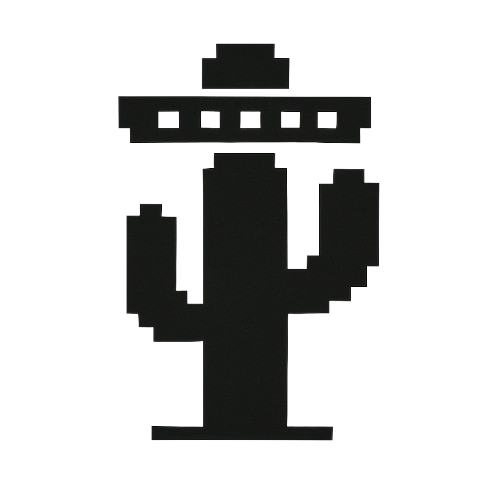
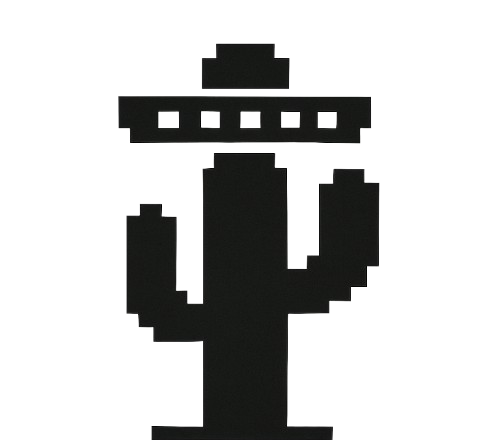
Refactor cactus obstacle logic and update styles
Replaces the single moving cactus with dynamic obstacle generation and movement in script.js. Updates styles.css to support multiple obstacles and adjusts positioning. Also updates the cacti.png asset.

diff --git a/script.js b/script.js
@@ -1,11 +1,55 @@
-let cactus = document.getElementById("cactus")
-let cactusPosition = 600;
+const cactusContainer = document.getElementById("cactus")
+let lastCactusTime = 0;
+const cactusInterval = 5000;
 
-function moveCactus() {
+/* function moveCactus() {
     cactusPosition -= 5;
     if (cactusPosition < - 20) cactusPosition = 600;
     cactus.style.left = cactusPosition + "px";
 }
 
-setInterval(moveCactus, 50)
+setInterval(moveCactus, 50) */
 
+function createObstacle() {
+    const obstacle = document.createElement("div");
+    obstacle.classList.add("cactus-obstacles");
+
+    //Random height
+    const height = Math.floor(Math.random() * 30) + 50;
+    obstacle.style.height = height + "px";
+    obstacle.style.left = "100%";
+
+    cactusContainer.appendChild(obstacle);
+    moveObstacle(obstacle);
+}
+
+function moveObstacle(obstacle) {
+    let position = window.innerWidth;
+
+    const interval = setInterval(() => {
+        position -= 5;
+        obstacle.style.left = position + "px";
+
+        // Remove when off screen
+        if (position < -60) {
+            obstacle.remove();
+            clearInterval(interval)
+        }
+
+
+    }, 50);
+}
+
+function startObstacleLoop() {
+    setInterval(() => {
+        const now = Date.now();
+        const timeSinceLast = now - lastCactusTime;
+
+        if(Math.random() < 0.5 && timeSinceLast > cactusInterval) {
+            createObstacle();
+            lastCactusTime = now
+        }
+    }, 500); 
+}
+
+startObstacleLoop();

diff --git a/styles.css b/styles.css
@@ -52,23 +52,20 @@ hr {
 }
 
 #cactus {
-  position: absolute;
-  bottom: -9px;
-  left: 600px;
-  width: 60px;
-  height: 80px;
-
-  background-image: url(src/cacti.png);
-  background-size: cover;
-  animation: cacti 2s linear infinite; /* you can change to 1 sec but it was hurting my eyes haha */
+  position: relative;
+  width: 100%;
+  height: 100%;
+  overflow: hidden;
 }
 
-@keyframes cacti {
-    0% {
-        left : 850px;
-    }
 
-    100% {
-      left: -20px;
-    }
+.cactus-obstacles {
+  position: absolute;
+  bottom: 0;
+  left: 600px;
+  width: 60px;
+  height: 100px;
+  background-image: url('src/cacti.png');
+  background-size: cover;
+  background-position: bottom;
 }
